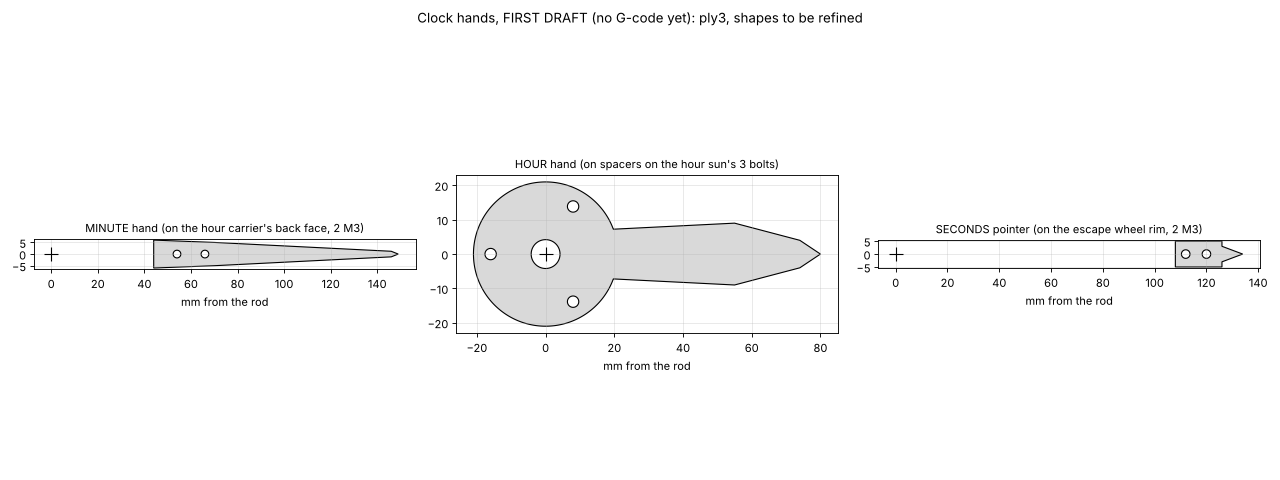
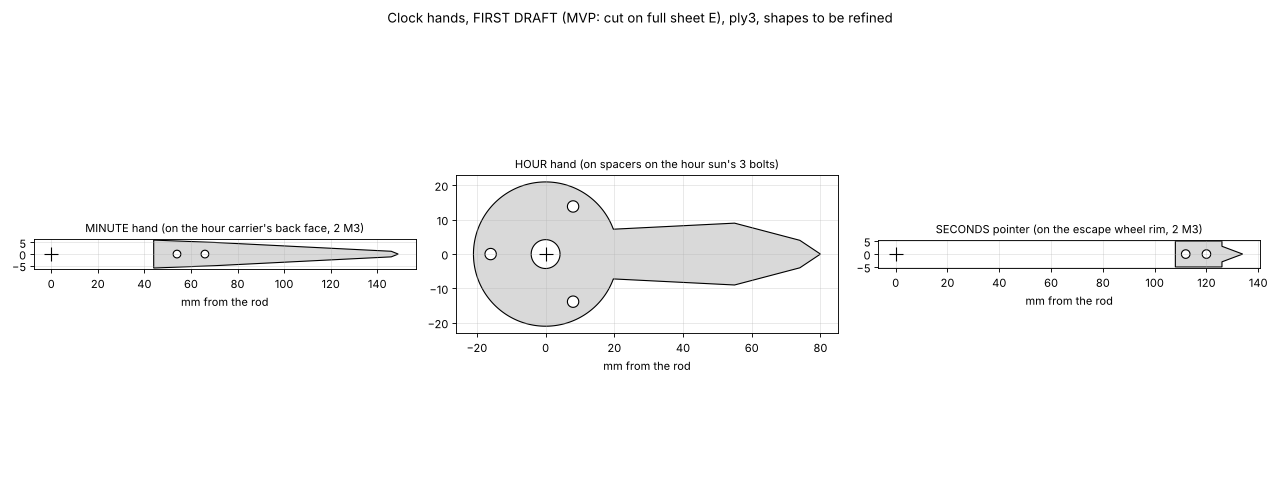
Clock train: MVP hands on full sheet E; pairwise part-gap check on every sheet
Claude-Session: https://claude.ai/code/session_01LQy87QnU21cWEAk5CN6jGY

Changed region(s): [[0.3125, 0.0, 0.7188, 0.0625]]

diff --git a/marbles/clock/clock_train_parts.py b/marbles/clock/clock_train_parts.py
@@ -7,12 +7,12 @@ Files (marbles/gcode/), each zeroed at its bottom-left, W x H in the name = the 
   clock_carrier_<stage>_front          front carrier + that stage's 2 lantern COVERS + 1 output-sun KEEPER ring nested inside
 Per stage: 3 + 3 sun layers, 2 carriers, 2 discs + 2 covers (one lantern), 2 keepers (one per side of the output sun:
 the front-carrier files give 2, one each).
-Hands are only sketched (views/clock_hands_sketch.png), no G-code yet.
+Hands: first draft in views/clock_hands_sketch.png, cut on full sheet E only.
 
 FULL SHEETS (--sheets): the whole set on 5 sheets of 300 x 300 ply3 (layout area 298 x 290: Y stays under the 292 travel):
   A..D  one carrier (with its nested lantern parts) middle-left + two layers of one sun stacked on the right; the left
         corners hold the 2 extra keepers the set needs (A) or spares (B, C, D)
-  E     one layer of each of the 4 suns
+  E     one layer of each of the 4 suns + the MVP hands (hour, minute, seconds pointer) between them
 Together: 3 layers of each of the 4 suns, the 4 carriers, 2 lanterns' discs + covers, 4 keepers (+ spares).
 
     python3 marbles/clock/clock_train_parts.py            # one file per part (as above)
@@ -159,21 +159,25 @@ def preview(files):
     return out
 
 
-def hands_sketch():
-    """first-draft hands (no G-code): minute hand on the hour carrier, hour hand on the hour sun's spacers, seconds
-    pointer on the escape wheel rim"""
-    import matplotlib; matplotlib.use("Agg")
-    import matplotlib.pyplot as plt
+def hands():
+    """MVP hands, in clock coordinates (the rod at the origin, pointing +x): minute hand (on the hour carrier's back face,
+    2 M3 at r 54 / 66), hour hand (round hub on the hour sun's 3 bolts at r 16, leaf to r 80), seconds pointer (escape
+    wheel rim, 2 M3)"""
     from shapely.geometry import Polygon
-    fig, axs = plt.subplots(1, 3, figsize=(16, 6))
-    # minute hand: a slim taper from r 44 to r 146, bolted at r 54 / 66 (MH_ANG on the carrier), counterpoise tail-less
-    mh = Polygon([(44, -6), (70, -5), (146, -1.2), (149, 0), (146, 1.2), (70, 5), (44, 6)])
-    mh = holes(mh, [(54, 0), (66, 0)], M3)
-    # hour hand: round hub r 21 on the 3 sun bolts (r 16), a leaf to r 80
+    mh = holes(Polygon([(44, -6), (70, -5), (146, -1.2), (149, 0), (146, 1.2), (70, 5), (44, 6)]), [(54, 0), (66, 0)], M3)
     hh = unary_union([circ(0, 0, 42, 128), Polygon([(15, -7), (55, -9), (74, -4), (80, 0), (74, 4), (55, 9), (15, 7)])])
     hh = holes(hh, [(0, 0)], 8.4); hh = holes(hh, [polar(16, 60 + 120 * k) for k in range(3)], M3)
-    # seconds pointer: an arrow on the escape wheel rim (2 M3)
     sp = holes(Polygon([(108, -5), (126, -5), (126, -3), (134, 0), (126, 3), (126, 5), (108, 5)]), [(112, 0), (120, 0)], M3)
+    return mh, hh, sp
+
+
+def hands_sketch():
+    """first-draft hands: minute hand on the hour carrier, hour hand on the hour sun's spacers, seconds pointer on the
+    escape wheel rim (cut on full sheet E)"""
+    import matplotlib; matplotlib.use("Agg")
+    import matplotlib.pyplot as plt
+    fig, axs = plt.subplots(1, 3, figsize=(16, 6))
+    mh, hh, sp = hands()
     for ax, g, t in zip(axs, (mh, hh, sp), ("MINUTE hand (on the hour carrier's back face, 2 M3)",
                                             "HOUR hand (on spacers on the hour sun's 3 bolts)",
                                             "SECONDS pointer (on the escape wheel rim, 2 M3)")):
@@ -182,7 +186,7 @@ def hands_sketch():
             ax.fill(*r.xy, fc="w", ec="k")
         ax.plot([0], [0], "k+", ms=12); ax.set_aspect("equal"); ax.set_title(t, fontsize=10); ax.grid(alpha=.3)
         ax.set_xlabel("mm from the rod")
-    fig.suptitle("Clock hands, FIRST DRAFT (no G-code yet): ply3, shapes to be refined", fontsize=12)
+    fig.suptitle("Clock hands, FIRST DRAFT (MVP: cut on full sheet E), ply3, shapes to be refined", fontsize=12)
     plt.tight_layout(); out = VIEWS / "clock_hands_sketch.png"; plt.savefig(out, dpi=80)
     return out
 
@@ -239,9 +243,16 @@ def sheets():
         out.append(write_sheet(f"clock_sheet{tag}_{grp[0][:3]}{grp[1]}_{sk[0][:3]}{sk[1]}{suns[sk][1]}x2", polys, what))
     ks = [("minute", "fixed"), ("minute", "out"), ("hour", "fixed"), ("hour", "out")]
     polys = [affinity.translate(suns[k][0], *xy) for k, xy in zip(ks, grid)]
+    # the MVP hands in the cross-shaped gap between the 4 suns: hour hub in the middle, its leaf up the vertical channel,
+    # the minute hand down it, the seconds pointer in the left arm
+    mh, hh, sp = hands()
+    cx, cy = SHEET_W / 2, SHEET_H / 2
+    polys.append(affinity.translate(affinity.rotate(hh, 90, origin=(0, 0)), cx, cy))
+    polys.append(affinity.translate(affinity.rotate(mh, -90, origin=(0, 0)), cx, cy - 21 - GAP - 1 + 44))   # base under the hub, tip down
+    polys.append(affinity.translate(sp, -108 + 2 + kerf, cy))
     what = ("1 layer each: minute fixed 59 (bottom left), minute out 60 (bottom right), hour fixed 55 (top left), "
-            "hour out 60 (top right)")
-    out.append(write_sheet("clock_sheetE_minfixed59_minout60_houfixed55_houout60", polys, what))
+            "hour out 60 (top right); MVP hands between them (hour, minute, seconds pointer)")
+    out.append(write_sheet("clock_sheetE_minfixed59_minout60_houfixed55_houout60_hands", polys, what))
     return out
 
 
@@ -252,6 +263,8 @@ def write_sheet(stem_base, polys, note):
     gs = [p.buffer(kerf / 2, join_style=2) for p in polys]
     x1 = max(g.bounds[2] for g in gs); y1 = max(g.bounds[3] for g in gs)
     assert min(g.bounds[0] for g in gs) >= -1e-6 and min(g.bounds[1] for g in gs) >= -1e-6 and x1 <= SHEET_W + 1e-6 and y1 < 292
+    gap = min(gs[i].distance(gs[j]) for i in range(len(gs)) for j in range(i + 1, len(gs)))
+    assert gap >= 2.0, (stem_base, gap)                       # cut edges (kerf-grown parts) at least 2 mm apart
     cuts = []
     for g in gs:
         cuts += [gcode.Polyline(list(r.coords), True) for r in g.interiors]
@@ -263,7 +276,7 @@ def write_sheet(stem_base, polys, note):
     for i, c in enumerate(cuts, 1):
         lines += gcode.cut(c, job, i, len(cuts))
     p = gcode.write(OUT / f"{stem}.gcode", lines)
-    print(f"  {p.name}: {len(cuts)} cuts, extent {x1:.2f} x {y1:.2f}")
+    print(f"  {p.name}: {len(cuts)} cuts, extent {x1:.2f} x {y1:.2f}, closest parts {gap:.2f} apart")
     return p, polys
 
 
